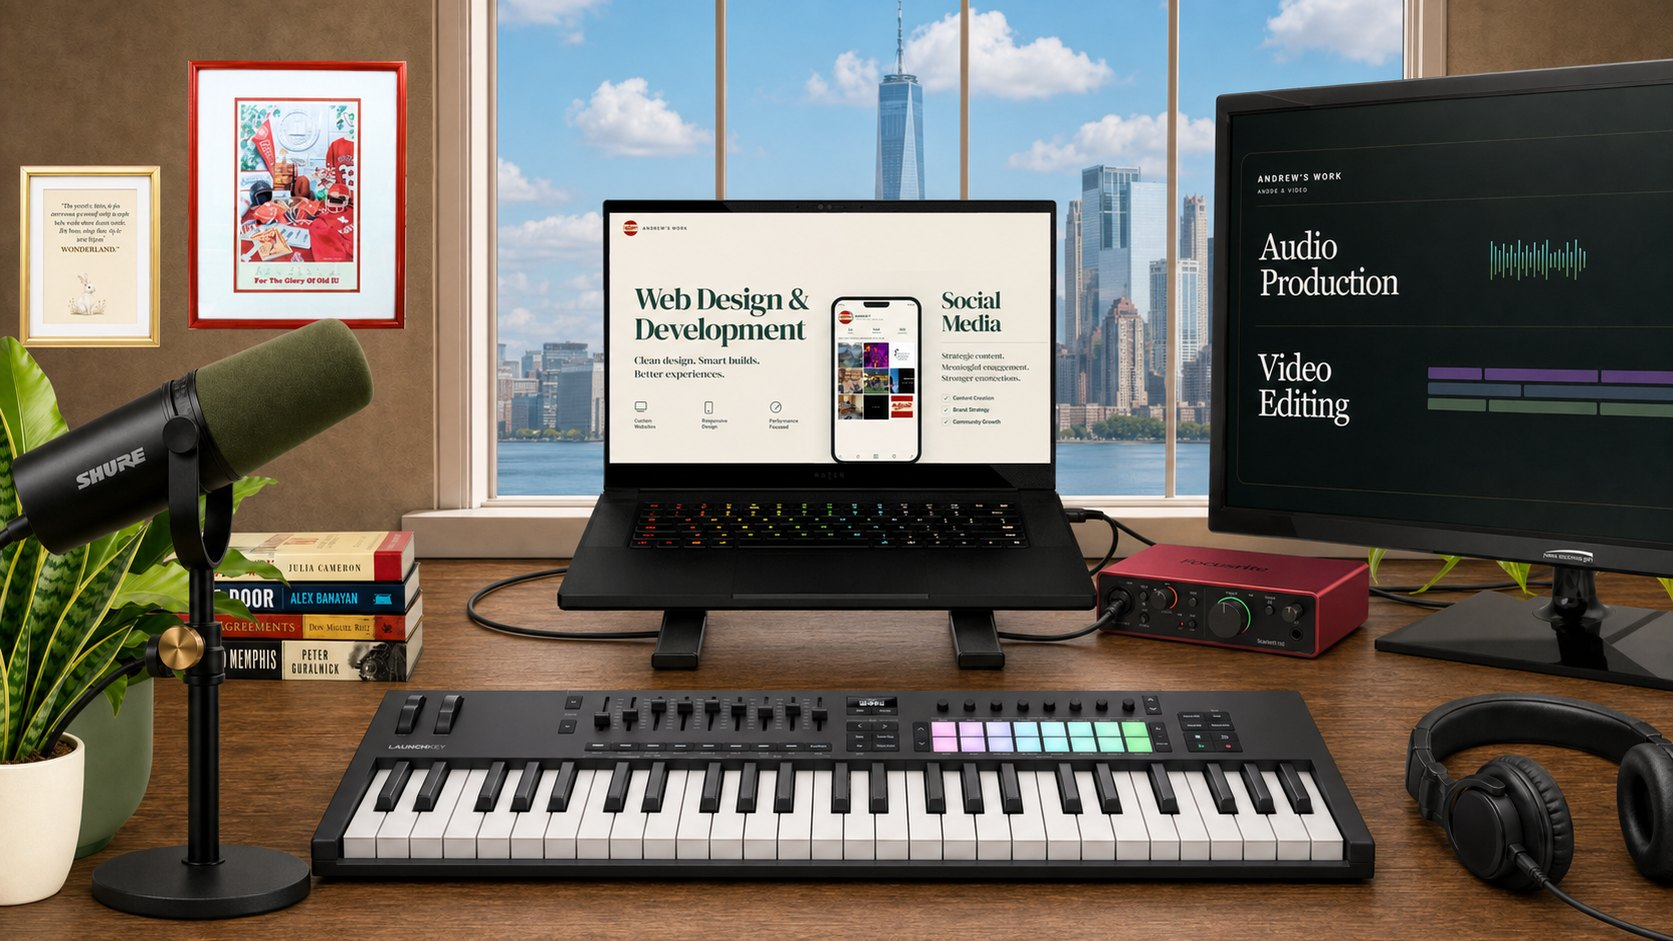
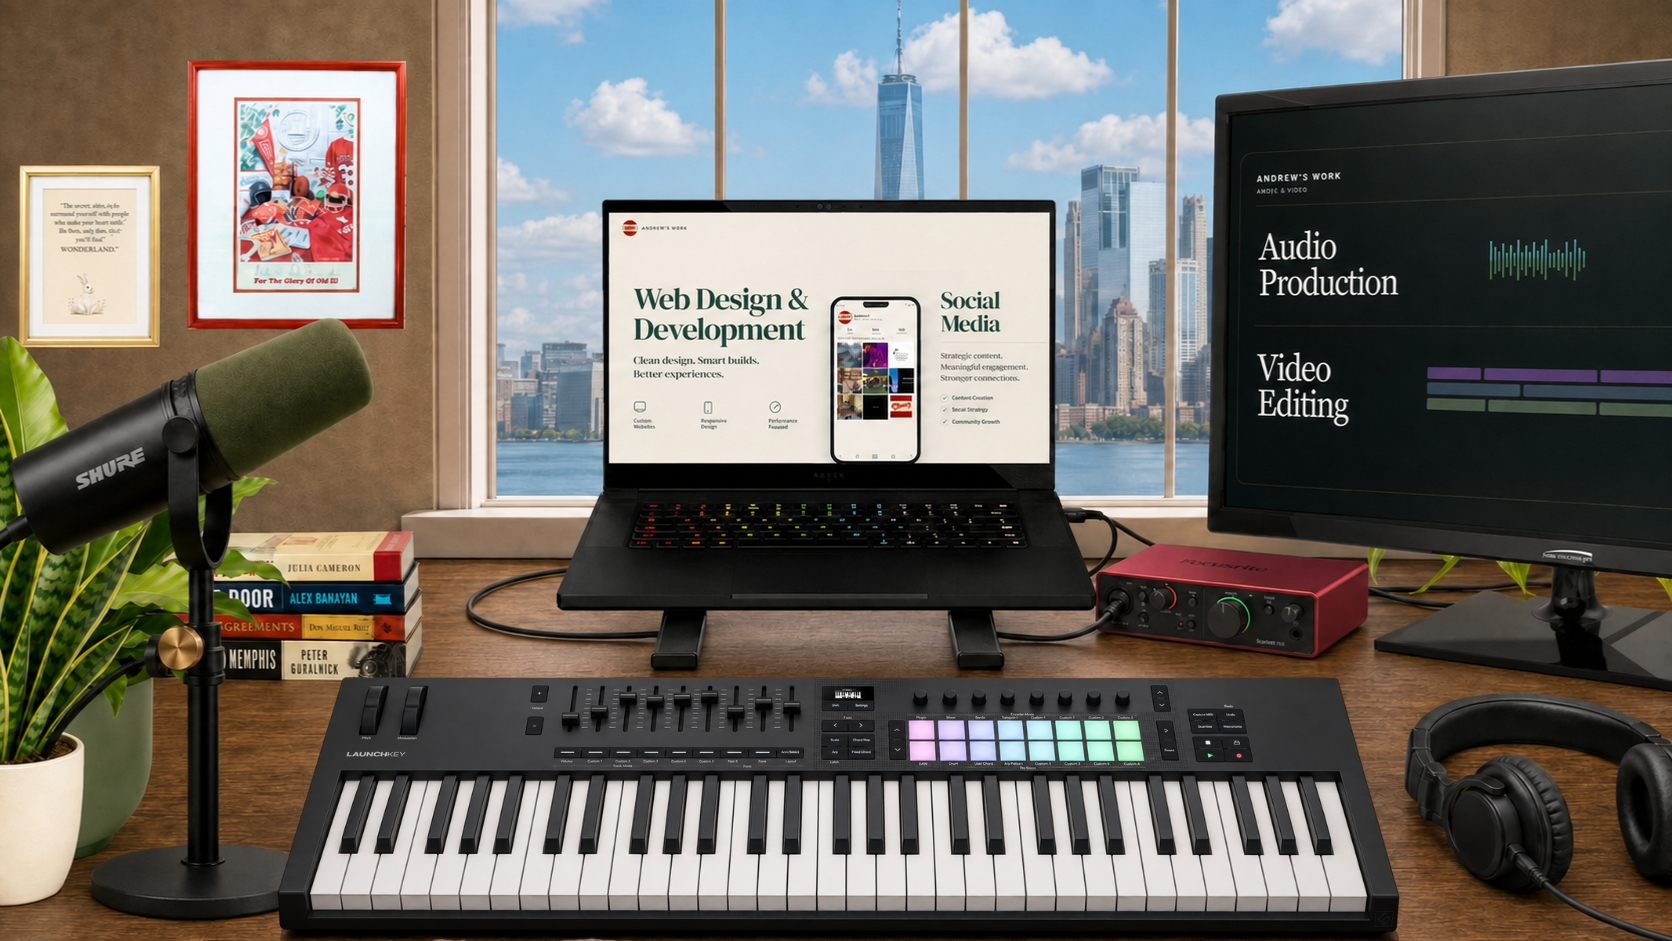
Update desk scene and portfolio links

diff --git a/index.html b/index.html
@@ -26,7 +26,7 @@
 <link href="https://fonts.googleapis.com" rel="preconnect">
 <link crossorigin="" href="https://fonts.gstatic.com" rel="preconnect">
 <link href="https://fonts.googleapis.com/css2?family=Bricolage+Grotesque:wght@500;600;700;800&amp;family=DM+Serif+Display&amp;family=IBM+Plex+Sans:wght@400;500;600;700&amp;display=swap" rel="stylesheet">
-<link href="styles.css?v=10" rel="stylesheet">
+<link href="styles.css?v=11" rel="stylesheet">
 </head>
 <body class="cue-ready">
 <button aria-label="Begin exploring Andrew Wolverton's portfolio" class="entry-cue" id="entryCue" type="button">
@@ -42,7 +42,7 @@
 <main aria-label="Andrew Wolverton portfolio" id="portfolio">
 <div aria-hidden="true" class="desk-camera">
 <div class="world" id="world">
-      <img alt="" class="desk-scene" src="assets/desk-scene.jpg">
+      <img alt="" class="desk-scene" src="assets/desk-scene.jpg?v=2">
 <a aria-label="Jump to contact section" class="desk-player" href="#contactSection">
 <span>Now Playing</span>
 <strong>Georgia On My Mind</strong>
@@ -114,10 +114,10 @@
 <p class="project-summary">A full visual redesign that makes the festival feel energetic, legible, and easy to explore across desktop and mobile.</p>
 <div class="project-tags"><span>Visual system</span><span>Responsive design</span><span>Information architecture</span></div>
 </div>
-<figure class="project-browser-frame project-browser-expanded">
+<a aria-label="Open the Porch Stomp website" class="project-browser-link" href="https://www.porchstomp.com/" rel="noopener noreferrer" target="_blank"><figure class="project-browser-frame project-browser-expanded">
 <div class="browser-bar"><i></i><i></i><i></i><span>porchstomp.com</span></div>
 <img alt="Porch Stomp redesigned homepage" src="03 Case Study Screenshots/Porch Stomp Screenshot.png">
-</figure>
+</figure></a>
 </article>
 <article aria-label="Porch Stomp lineup browser project" class="laptop-page-final web-project-page project-page-expanded">
 <div class="project-copy">
@@ -126,10 +126,10 @@
 <p class="project-summary">A searchable, filterable artist browser designed to support current festival discovery and a future archive of past years.</p>
 <div class="project-tags"><span>Custom interface</span><span>Artist filters</span><span>Archive-ready</span></div>
 </div>
-<figure class="project-browser-frame project-browser-expanded">
+<a aria-label="Open the Porch Stomp lineup browser" class="project-browser-link" href="https://www.porchstomp.com/line-up" rel="noopener noreferrer" target="_blank"><figure class="project-browser-frame project-browser-expanded">
 <div class="browser-bar"><i></i><i></i><i></i><span>porchstomp.com/lineup</span></div>
 <img alt="Porch Stomp lineup browser" src="03 Case Study Screenshots/Porch Stomp Line Up Browser.png">
-</figure>
+</figure></a>
 </article>
 <article aria-label="Yolele Ingredients website project" class="laptop-page-final web-project-page project-page-expanded">
 <div class="project-copy">
@@ -138,10 +138,10 @@
 <p class="project-summary">A product-forward redesign that helps foodservice and manufacturing buyers understand ingredients, formats, and applications quickly.</p>
 <div class="project-tags"><span>Buyer clarity</span><span>Product hierarchy</span><span>Responsive layout</span></div>
 </div>
-<figure class="project-browser-frame project-browser-contain project-browser-expanded">
+<a aria-label="Open the Yolele Ingredients website" class="project-browser-link" href="https://www.yoleleingredients.com/" rel="noopener noreferrer" target="_blank"><figure class="project-browser-frame project-browser-contain project-browser-expanded">
 <div class="browser-bar"><i></i><i></i><i></i><span>yoleleingredients.com</span></div>
 <img alt="Yolele Ingredients product page" src="03 Case Study Screenshots/Yolele Ingredients.png">
-</figure>
+</figure></a>
 </article>
 <article aria-label="Yolele Ingredients inquiry flow project" class="laptop-page-final web-project-page project-page-expanded">
 <div class="project-copy">
@@ -150,10 +150,10 @@
 <p class="project-summary">A clearer business inquiry experience built to capture the right information and move qualified buyers toward a conversation.</p>
 <div class="project-tags"><span>Lead capture</span><span>Form hierarchy</span><span>Conversion path</span></div>
 </div>
-<figure class="project-browser-frame project-browser-contain project-browser-expanded">
+<a aria-label="Open the Yolele Ingredients website" class="project-browser-link" href="https://www.yoleleingredients.com/" rel="noopener noreferrer" target="_blank"><figure class="project-browser-frame project-browser-contain project-browser-expanded">
 <div class="browser-bar"><i></i><i></i><i></i><span>yoleleingredients.com/inquire</span></div>
 <img alt="Yolele Ingredients inquiry form" src="03 Case Study Screenshots/Yolele Ingredients Form.png">
-</figure>
+</figure></a>
 </article>
 
 <article aria-label="Social media portfolio feed" class="laptop-page-final social-feed-page-final">
@@ -411,7 +411,7 @@
 <section aria-label="Enter Andrew's mobile portfolio" class="mobile-intro" id="mobileIntro">
 <div class="mobile-intro-sticky">
 <div aria-hidden="true" class="mobile-desk-world" id="mobileDeskWorld" style="transform: translate(316.5px, 349px) scale(0.741764) translate(-836px, -470px); opacity: 1;">
-<img alt="" src="assets/desk-scene.jpg">
+<img alt="" src="assets/desk-scene.jpg?v=2">
 </div>
 <div class="mobile-phone-handoff" id="mobilePhoneHandoff" style="opacity: 0; transform: scale(0.94);">
 <div class="mobile-phone-shell">
@@ -453,11 +453,11 @@
 <p>A clearer festival experience across the homepage and a searchable, archive-ready lineup browser.</p>
 </div>
 <div class="mobile-browser-previews">
-<a aria-label="Open the Porch Stomp homepage example at full size" href="03 Case Study Screenshots/Porch Stomp Screenshot.png" rel="noopener" target="_blank">
+<a aria-label="Open the Porch Stomp website" href="https://www.porchstomp.com/" rel="noopener noreferrer" target="_blank">
 <img alt="Porch Stomp redesigned homepage" src="03 Case Study Screenshots/Porch Stomp Screenshot.png">
 <span>Homepage <b aria-hidden="true">↗</b></span>
 </a>
-<a aria-label="Open the Porch Stomp lineup browser example at full size" href="03 Case Study Screenshots/Porch Stomp Line Up Browser.png" rel="noopener" target="_blank">
+<a aria-label="Open the Porch Stomp lineup browser" href="https://www.porchstomp.com/line-up" rel="noopener noreferrer" target="_blank">
 <img alt="Porch Stomp lineup browser" src="03 Case Study Screenshots/Porch Stomp Line Up Browser.png">
 <span>Lineup Browser <b aria-hidden="true">↗</b></span>
 </a>
@@ -472,11 +472,11 @@
 <p>A product-forward buyer experience paired with a cleaner, more useful business inquiry path.</p>
 </div>
 <div class="mobile-browser-previews">
-<a aria-label="Open the Yolele Ingredients website example at full size" href="03 Case Study Screenshots/Yolele Ingredients.png" rel="noopener" target="_blank">
+<a aria-label="Open the Yolele Ingredients website" href="https://www.yoleleingredients.com/" rel="noopener noreferrer" target="_blank">
 <img alt="Yolele Ingredients product page" src="03 Case Study Screenshots/Yolele Ingredients.png">
 <span>Ingredients Site <b aria-hidden="true">↗</b></span>
 </a>
-<a aria-label="Open the Yolele inquiry flow example at full size" href="03 Case Study Screenshots/Yolele Ingredients Form.png" rel="noopener" target="_blank">
+<a aria-label="Open the Yolele Ingredients website" href="https://www.yoleleingredients.com/" rel="noopener noreferrer" target="_blank">
 <img alt="Yolele Ingredients inquiry form" src="03 Case Study Screenshots/Yolele Ingredients Form.png">
 <span>Inquiry Flow <b aria-hidden="true">↗</b></span>
 </a>

diff --git a/styles.css b/styles.css
@@ -2714,6 +2714,29 @@ body {
   border: 1px solid rgba(17,56,47,0.12);
   box-shadow: 0 28px 70px rgba(17,56,47,0.17);
 }
+
+.project-browser-link {
+  display: block;
+  color: inherit;
+  text-decoration: none;
+  cursor: pointer;
+  border-radius: 25px;
+}
+
+.project-browser-link .project-browser-frame {
+  transition: transform 180ms ease, box-shadow 180ms ease;
+}
+
+.project-browser-link:hover .project-browser-frame,
+.project-browser-link:focus-visible .project-browser-frame {
+  transform: translateY(-3px);
+  box-shadow: 0 32px 72px rgba(17, 56, 47, 0.2);
+}
+
+.project-browser-link:focus-visible {
+  outline: 3px solid #1b6d5d;
+  outline-offset: 5px;
+}
 .browser-bar {
   height: 38px;
   display: flex;
